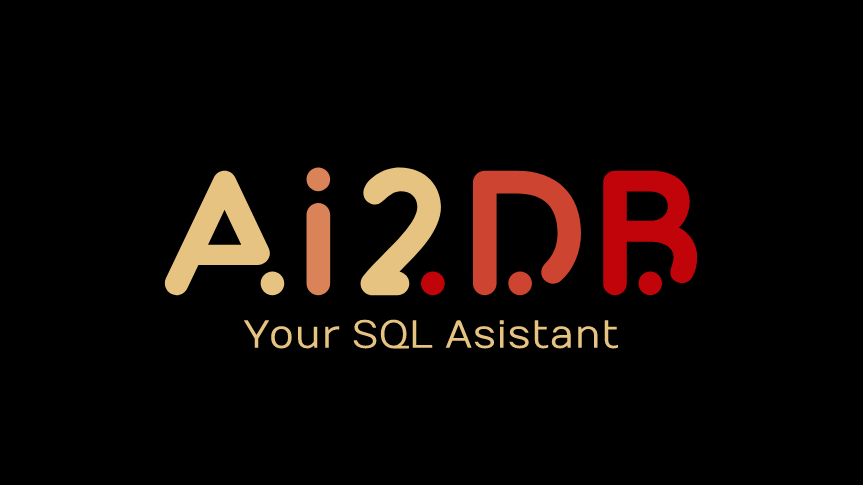
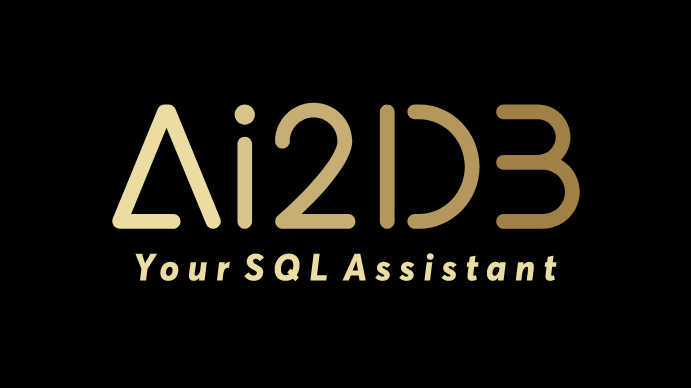
Sustitución de imagen y creacion de style1.css

Changed region(s): [[0.152, 0.2474, 0.5166, 0.6186], [0.547, 0.2474, 0.8509, 0.6186], [0.1823, 0.6495, 0.8205, 0.7423]]

diff --git a/frontend/index.html b/frontend/index.html
@@ -3,7 +3,8 @@
   <head>
     <meta charset="utf-8">
     <!-- This link tag is used to link html file with css file -->
-    <link rel="stylesheet" href="/frontend/style.css"
+    <link rel="stylesheet" href="/frontend/style.css">
+    <link rel="stylesheet" href="/frontend/style1.css">
     <title></title>
   </head>
 
@@ -21,7 +22,7 @@
     <!-- Main body of google -->
     <main>
       <center>
-        <img src="/frontend/images/logo.png" width="20%" height="5%" id="googleimg">
+        <img src="/frontend/images/Ai2DB.jpg" width="20%" height="5%" id="googleimg">
         <!-- Search bar -->
         
           
